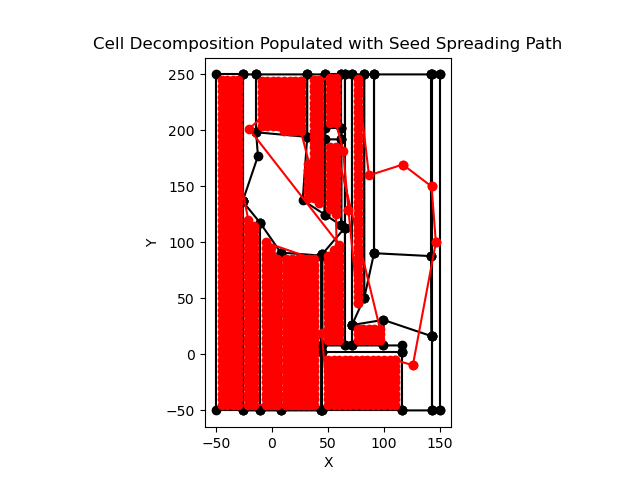
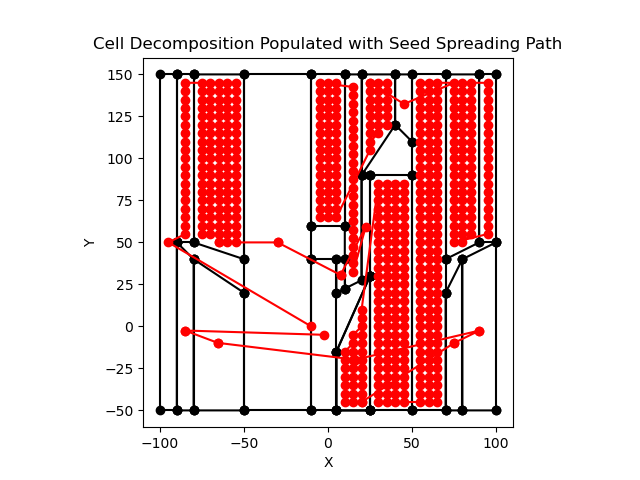
added TSP, change env to more simple env, formatting

diff --git a/coverage.py b/coverage.py
@@ -9,49 +9,57 @@ from seed_spreading.DynamicObstacle import DynamicObstacle
 from tqdm import tqdm
 import TSP
 
-def draw_cells(cell_bounds, centroid, ax=None)->plt.axes:
-    '''
+
+def draw_cells(cell_bounds, centroid, ax=None) -> plt.axes:
+    """
     Draws the cells and centroids on the given axis.
-    '''
+    """
 
     if ax is None:
         import matplotlib.pyplot as plt
+
         fig, ax = plt.subplots()
 
     for i in range(0, len(cell_bounds)):
 
         cell = np.array(cell_bounds[i])
-        ax.plot(cell[:, 0], cell[:, 1], 'k-')
+        ax.plot(cell[:, 0], cell[:, 1], "k-")
         # Draw the last side of the cell
         x_last_side = [cell[-1][0], cell[0][0]]
         y_last_side = [cell[-1][1], cell[0][1]]
-        ax.plot(x_last_side, y_last_side, 'k-')
+        ax.plot(x_last_side, y_last_side, "k-")
 
         # fill the cell and add the centroid
         ax.fill(cell[:, 0], cell[:, 1], alpha=0.2)
-        ax.plot(centroid[i][0], centroid[i][1], 'ro')
+        ax.plot(centroid[i][0], centroid[i][1], "ro")
 
-        # label the cell number 
-        ax.text(centroid[i][0], centroid[i][1], str(i), fontsize=12, ha='center', va='center')
+        # label the cell number
+        ax.text(
+            centroid[i][0],
+            centroid[i][1],
+            str(i),
+            fontsize=12,
+            ha="center",
+            va="center",
+        )
 
     return ax
 
 
 if __name__ == "__main__":
 
-    #===========================================================================#
+    # ===========================================================================#
     # Get environment
-    #===========================================================================#
-    env_file = "./cell_decomposition/env3.txt"
+    # ===========================================================================#
+    env_file = "./cell_decomposition/env0.txt"
 
     # Build polygon environment for cell decompostion
     env = PolygonEnvironment()
     env.read_env(env_file)
 
-
-    #===========================================================================#
+    # ===========================================================================#
     # Create the cell decomposition
-    #===========================================================================#
+    # ===========================================================================#
     env.trapezoidal_decomposition()
     cell_bounds, centroids = env.get_cells()
 
@@ -60,23 +68,21 @@ if __name__ == "__main__":
     ax1.set_title("Exact Cell Decomposition")
     ax1.set_xlabel("X")
     ax1.set_ylabel("Y")
-    ax1.set_aspect('equal', adjustable='box')
+    ax1.set_aspect("equal", adjustable="box")
     plt.savefig("figures/cell_decomposition.png")
     plt.show()
 
-
-
-    #===========================================================================#
+    # ===========================================================================#
     # TODO: Traveling Salesman
-    #===========================================================================#
-    traveling = TSP(env,cell_bounds,centroids)
-    
-    ordered_centroids = traveling.get_ordered_centroids()
-    ordered_polygons = traveling.get_ordered_polygons()
+    # ===========================================================================#
+    traveling = TSP.TSP(env, cell_bounds, centroids)
 
-    #===========================================================================#
+    cell_bounds = traveling.get_ordered_polygons()
+    centroids = traveling.get_ordered_centroids()
+
+    # ===========================================================================#
     # Create the stiched seed spreading path
-    #===========================================================================#
+    # ===========================================================================#
 
     seed_patches = []
 
@@ -87,67 +93,70 @@ if __name__ == "__main__":
         seed_planner.load_polygon(cell)
         seed_patches.append(seed_planner)
 
-
     sticher = PathSticher(seed_patches, centroids)
     waypoint_path = sticher.get_quilted_path([-10, 0])
     ax3 = sticher.plot_path()
-    ax3.set_aspect('equal', adjustable='box')
+    ax3.set_aspect("equal", adjustable="box")
 
     ax3.set_title("Cell Decomposition Populated with Seed Spreading Path")
     plt.savefig("figures/seed_spreading_path.png")
 
-
-
-    #==========================================================================#
+    # ==========================================================================#
     # Run the simulation of the robot
-    #==========================================================================#
+    # ==========================================================================#
     start_point = np.array([-10, 0])
     dyn_obs_1_path = [np.linspace(3, -2.5, 100), np.linspace(-3, 3, 100)]
 
-    robot_init_state = np.append(start_point, [np.pi/2,0,0])
+    robot_init_state = np.append(start_point, [np.pi / 2, 0, 0])
     k_distance = 0.5
     k_path = 2.0
     k_angle = 5.0
 
-
-    tractor = Robot(robot_init_state,waypoint_path,k_angle, k_distance, k_path)
+    tractor = Robot(robot_init_state, waypoint_path, k_angle, k_distance, k_path)
 
     # Add obstacle:
-    tractor.init_add_dynamic_obstacle([3,4], 350, dyn_obs_1_path)
+    tractor.init_add_dynamic_obstacle([3, 4], 350, dyn_obs_1_path)
 
     dt = 0.001
 
-    t_span = np.arange(0,50000,dt)
+    t_span = np.arange(0, 50000, dt)
 
     robot_locations = np.empty((len(t_span) + 1, 2))
     robot_locations[:] = np.NaN
 
     robot_locations[0] = robot_init_state[0:2]
 
-    for i in tqdm(range(0,len(t_span))):
+    for i in tqdm(range(0, len(t_span))):
 
         tractor.update_control()
         tractor.update_state(dt)
 
-        robot_locations[i+1] = tractor.state[0:2]
+        robot_locations[i + 1] = tractor.state[0:2]
 
         if tractor.path_index >= len(tractor.path):
             print(tractor.t_current)
             break
 
-    ax3.plot(robot_locations[:,0], robot_locations[:,1], 'b')
-    ax3.plot(dyn_obs_1_path[0], dyn_obs_1_path[1], 'r-')
+    ax3.plot(robot_locations[:, 0], robot_locations[:, 1], "b")
+    ax3.plot(dyn_obs_1_path[0], dyn_obs_1_path[1], "r-")
 
     ax3.set_title("Robot Path")
     plt.savefig("figures/robot_path.png")
 
-    lines = [Line2D([0], [0], color='k', lw=2),
-             Line2D([0], [0], color='r', lw=2),
-             Line2D([0], [0], color='b', lw=2),
-             Line2D([0], [0], color='orange', lw=2)]
+    lines = [
+        Line2D([0], [0], color="k", lw=2),
+        Line2D([0], [0], color="r", lw=2),
+        Line2D([0], [0], color="b", lw=2),
+        Line2D([0], [0], color="orange", lw=2),
+    ]
 
-    labels = ['Cell Boundaries', 'Robot Waypoint Path', 'Robot Path', 'Dynamic Obstacle Path']
-    ax3.legend(lines, labels, loc='upper right')
+    labels = [
+        "Cell Boundaries",
+        "Robot Waypoint Path",
+        "Robot Path",
+        "Dynamic Obstacle Path",
+    ]
+    ax3.legend(lines, labels, loc="upper right")
 
     ax3.set_xlabel("X")
     ax3.set_ylabel("Y")
